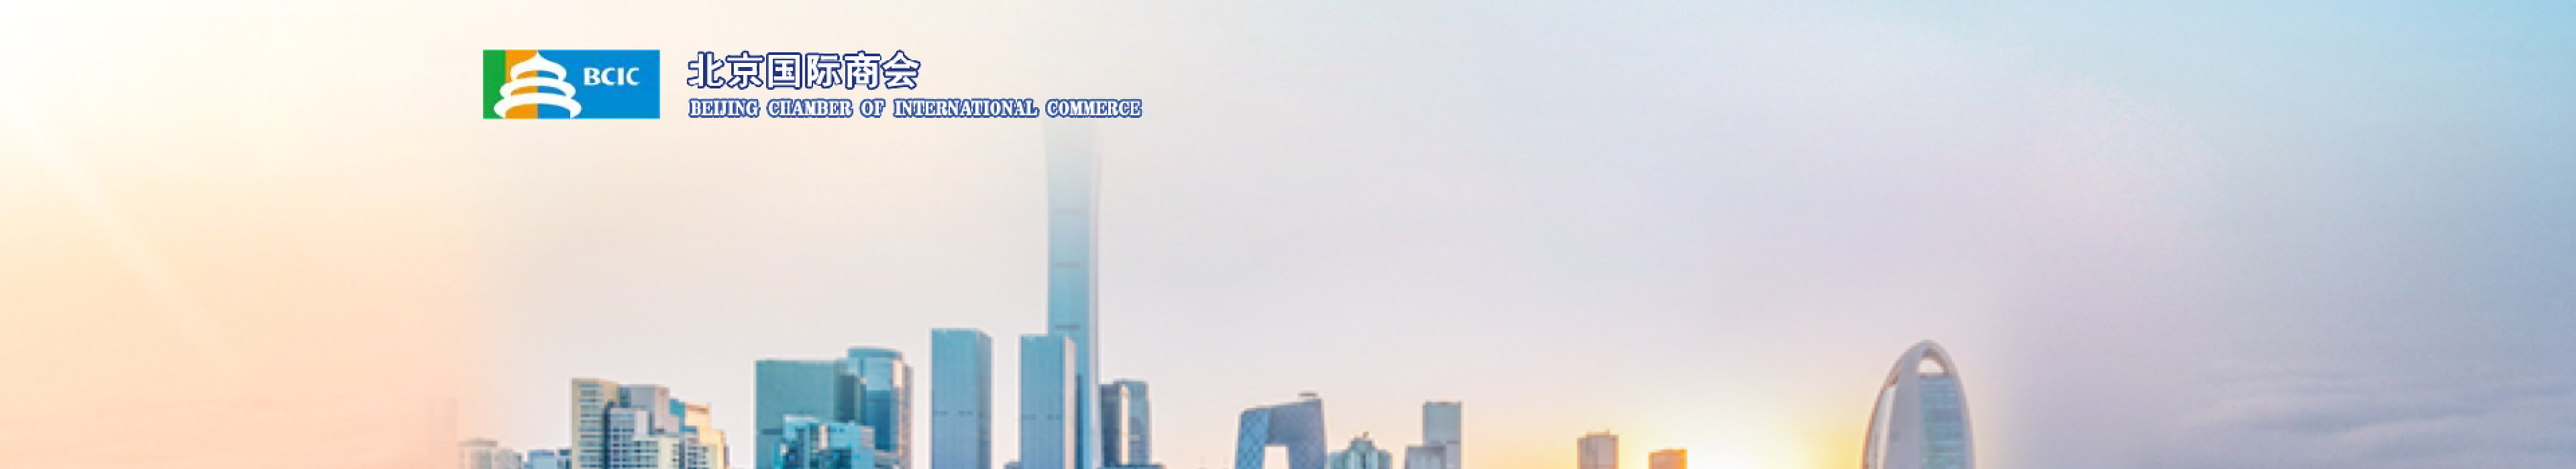
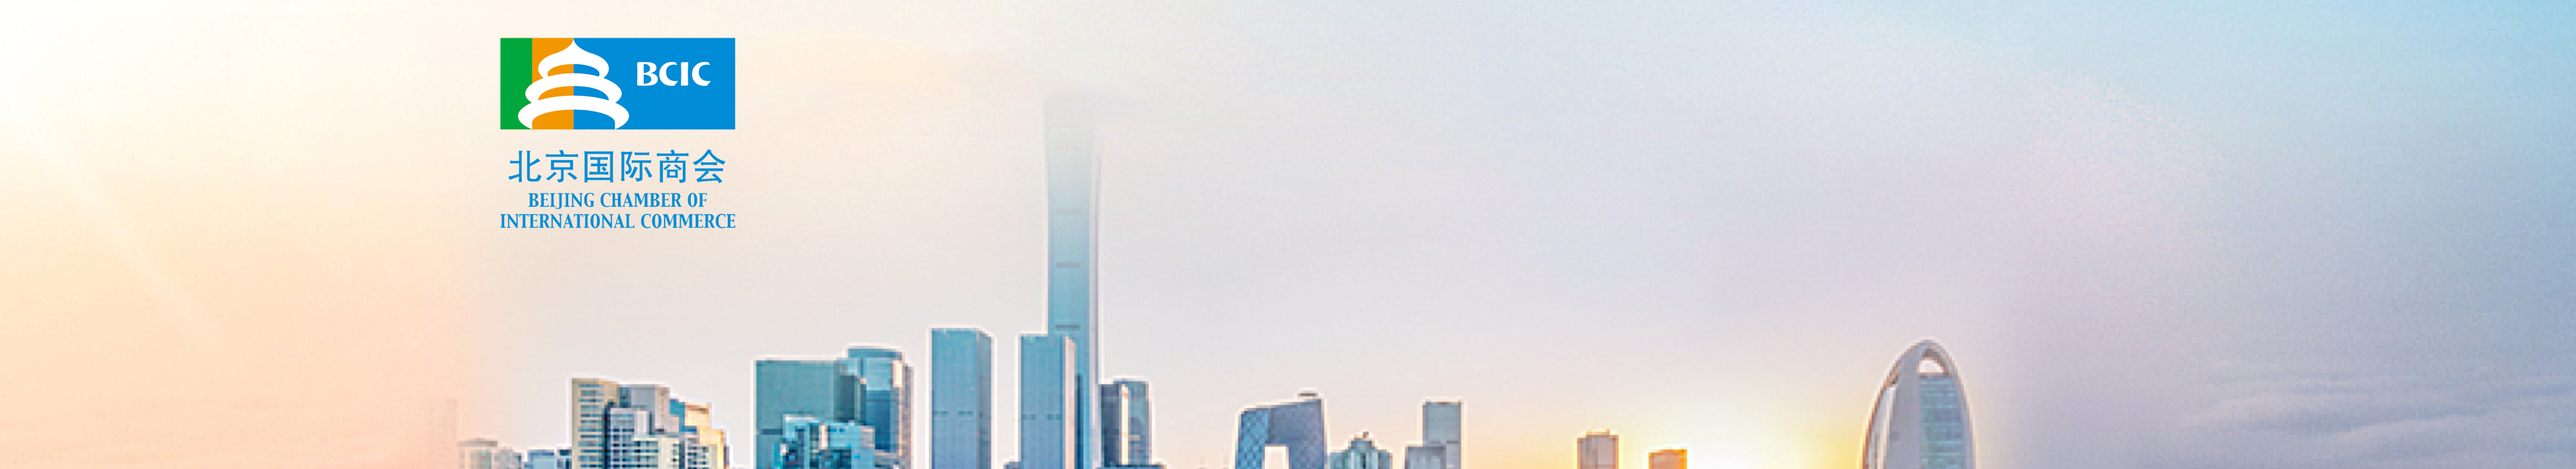
fix: 替换头图和banner图

diff --git a/index.html b/index.html
@@ -98,7 +98,7 @@
                     </div>
                 </div>
             </div>
-            <div class="banner">“一带一路”商务沙龙</div>
+            <div class="banner"></div>
             <div class="service">
                 <div class="service-title">
                     <div class="flex">
@@ -865,30 +865,21 @@
         max-width: 1200px;
         height: 120px;
         margin: 75px 0 84px 0;
-        background: #1199FD;
-        color: #FFF;
-        font-family: FZLTDHJW--GB1, FZLTDHJW--GB1;
-        font-size: 44px;
-        font-weight: 600;
-        letter-spacing: 4px;
-        display: flex;
-        justify-content: center;
-        align-items: center;
+        background: url("./assets/middle-banner@2x.png");
+        background-size: 100%;
     }
 
     @media (max-width: 1200px) {
         .banner {
-            height: 90px;
+            height: 0;
+            padding-bottom: 10%;
             margin: 30px 0;
-            font-size: 30px;
         }
     }
 
     @media (max-width: 600px) {
         .banner {
-            height: 60px;
             margin: 20px 0;
-            font-size: 16px;
         }
     }
 
